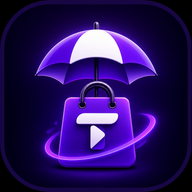
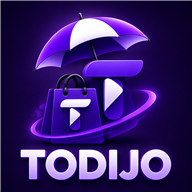
fix: tighten homepage hero and strengthen Todijo branding

diff --git a/app/globals.css b/app/globals.css
@@ -1314,7 +1314,7 @@ body.todijoRootBody:has(.todijoLaunchSplash){background:#16074c}
 @media(max-width:420px){.buyerHomePage .discoveryHeroGrid{padding:22px 14px 15px}.buyerHomePage .discoveryHero h1{font-size:31px}.buyerHomePage .discoveryHeroActions{display:grid;grid-template-columns:1fr}.buyerHomePage .discoveryHeroCta{width:100%;justify-content:center}.heroProductCollage{min-height:190px;height:190px}.todijoTrustPrimary .todijoTrustGrid article{flex-basis:86vw}.marketplaceSectionHeading h2{font-size:19px}.marketplaceSectionHeading small{font-size:9px}.marketplaceViewAll{font-size:10px}.featuredStoreCard{flex-basis:90vw}.marketplaceFooterCompact{display:flex}}
 
 /* Premium homepage and approved 3D Todijo identity */
-.todijoBrand{gap:8px}.todijoBrandMark{object-fit:cover;border-radius:12px;filter:drop-shadow(0 4px 9px rgba(93,25,207,.28))}.todijoWordmark{color:inherit}.todijoWordmark>span{color:#b967ff!important}
+.todijoBrand{gap:9px}.todijoBrandMark{object-fit:cover;border-radius:11px;filter:drop-shadow(0 4px 9px rgba(93,25,207,.32))}.todijoWordmark{color:inherit;font-weight:950;letter-spacing:-1.1px;text-shadow:0 1px 10px rgba(26,4,62,.22)}.todijoWordmark>span{color:#d59aff!important}
 .authLogo{min-height:58px;padding-inline-start:66px;display:flex;align-items:center;background:url('/images/brand/todijo-mark.png') left center/56px 56px no-repeat;color:#fff}.authLogo span{color:#ba68ff}[dir=rtl] .authLogo{padding-inline-start:0;padding-inline-end:66px;background-position:right center}
 .buyerHomePage .discoveryHero{padding:18px 0 10px;background:linear-gradient(180deg,#f9f5ff,#fff)}
 .premiumHeroSlider{position:relative;height:clamp(470px,42vw,610px);overflow:hidden;border-radius:30px;background:#100331;box-shadow:0 30px 75px rgba(75,17,145,.28);touch-action:pan-y;isolation:isolate}
@@ -1333,13 +1333,35 @@ body.todijoRootBody:has(.todijoLaunchSplash){background:#16074c}
 
 /* Final homepage polish: near-full-width hero and a single-row Nouveautés rail. */
 .buyerHomePage .premiumHeroContainer{width:min(1720px,calc(100% - 24px))}
-.buyerHomePage .premiumHeroSlider{height:clamp(410px,34vw,500px)}
+.buyerHomePage .premiumHeroSlider{height:clamp(250px,21vw,300px)}
+.buyerHomePage .premiumHeroCopy{padding:24px 52px}.buyerHomePage .premiumHeroCopy .badge{padding:5px 9px;font-size:10px}.buyerHomePage .premiumHeroCopy h1{margin:8px 0 6px;font-size:clamp(29px,3vw,43px);line-height:1}.buyerHomePage .premiumHeroCopy p{font-size:13px;line-height:1.4}.buyerHomePage .premiumHeroCopy .discoveryHeroActions{margin-top:12px}.buyerHomePage .premiumHeroCopy .discoveryHeroCta{min-height:40px;padding-inline:14px;font-size:12px}.buyerHomePage .premiumHeroCopy .discoveryHeroSignals{margin-top:10px;gap:10px}.premiumHeroProducts{inset:7% 4% 7% auto;width:39%;padding:8px;border-radius:19px}[dir=rtl] .premiumHeroProducts{inset:7% auto 7% 4%}.premiumHeroProducts .heroProductCollage{gap:6px}.premiumHeroProducts .heroProductCard{border-radius:11px}.premiumHeroProducts .heroProductCard>span{padding:18px 7px 6px}.premiumHeroProducts .heroProductCard strong{font-size:9px}.premiumHeroProducts .heroProductCard b{font-size:9px}
 .marketplaceCarouselFrame{position:relative}.marketplaceCarouselArrow{position:absolute;z-index:8;top:50%;width:54px;height:54px;padding:0;border:1px solid rgba(109,40,217,.2);border-radius:50%;background:linear-gradient(145deg,#7c3aed,#5b21b6);color:#fff;display:grid;place-items:center;transform:translateY(-50%);cursor:pointer;box-shadow:0 13px 30px rgba(70,29,112,.3)}.marketplaceCarouselArrow.previous{inset-inline-start:-27px}.marketplaceCarouselArrow.next{inset-inline-end:-27px}.marketplaceCarouselArrow:hover{background:linear-gradient(145deg,#8b4af0,#6421c7);transform:translateY(-50%) scale(1.06)}.marketplaceCarouselArrow:focus-visible{outline:4px solid rgba(124,58,237,.3);outline-offset:3px}.marketplaceCarouselArrow svg{width:24px;height:24px}[dir=rtl] .marketplaceCarouselArrow svg{transform:scaleX(-1)}
 .marketplaceRailSection.isCarousel .marketplaceProductRail{display:grid!important;grid-template-columns:none!important;grid-auto-flow:column;grid-auto-columns:calc((100% - 56px)/5);gap:14px;overflow-x:auto!important;overflow-y:hidden;padding:4px 0 20px;scroll-snap-type:x mandatory;scroll-behavior:smooth;scrollbar-width:none;overscroll-behavior-inline:contain}.marketplaceRailSection.isCarousel .marketplaceProductRail::-webkit-scrollbar{display:none}.marketplaceRailSection.isCarousel .marketplaceProductRail .discoveryCard{display:flex!important;min-width:0;scroll-snap-align:start;scroll-snap-stop:normal}.marketplaceRailSection.isCarousel .marketplaceProductRail .discoveryImageWrap{height:190px}
 @media(max-width:1100px) and (min-width:861px){.marketplaceRailSection.isCarousel .marketplaceProductRail{grid-auto-columns:calc((100% - 42px)/4)}.marketplaceCarouselArrow.previous{inset-inline-start:5px}.marketplaceCarouselArrow.next{inset-inline-end:5px}}
-@media(max-width:860px){.buyerHomePage .premiumHeroContainer{width:100%}.buyerHomePage .premiumHeroSlider{height:500px}.marketplaceRailSection.isCarousel .marketplaceProductRail{display:flex!important;gap:11px;padding:4px 3px 15px}.marketplaceRailSection.isCarousel .marketplaceProductRail .discoveryCard{flex:0 0 min(62vw,238px)!important}.marketplaceRailSection.isCarousel .marketplaceProductRail .discoveryImageWrap{height:auto}.marketplaceCarouselArrow{width:44px;height:44px}.marketplaceCarouselArrow.previous{inset-inline-start:4px}.marketplaceCarouselArrow.next{inset-inline-end:4px}.marketplaceCarouselArrow svg{width:20px;height:20px}}
-@media(max-width:430px){.buyerHomePage .premiumHeroSlider{height:470px}.marketplaceRailSection.isCarousel .marketplaceProductRail .discoveryCard{flex-basis:min(68vw,224px)!important}.marketplaceCarouselArrow{width:40px;height:40px}.marketplaceCarouselArrow svg{width:18px;height:18px}.marketplaceRailSection.isCarousel .marketplaceViewAll{padding-inline:9px}}
-@media(max-width:350px){.buyerHomePage .discoveryHero{padding-inline:6px}.buyerHomePage .premiumHeroSlider{height:450px}.marketplaceRailSection.isCarousel .marketplaceProductRail .discoveryCard{flex-basis:min(72vw,216px)!important}.marketplaceSectionHeading{align-items:center}.marketplaceSectionHeading>div{gap:7px}.marketplaceRailSection.isCarousel .marketplaceViewAll{font-size:9px;padding-inline:7px}.marketplaceCarouselArrow{width:38px;height:38px}}
+@media(max-width:860px){.buyerHomePage .premiumHeroContainer{width:100%}.marketplaceRailSection.isCarousel .marketplaceProductRail{display:flex!important;gap:11px;padding:4px 3px 15px}.marketplaceRailSection.isCarousel .marketplaceProductRail .discoveryCard{flex:0 0 min(62vw,238px)!important}.marketplaceRailSection.isCarousel .marketplaceProductRail .discoveryImageWrap{height:auto}.marketplaceCarouselArrow{width:44px;height:44px}.marketplaceCarouselArrow.previous{inset-inline-start:4px}.marketplaceCarouselArrow.next{inset-inline-end:4px}.marketplaceCarouselArrow svg{width:20px;height:20px}}
+@media(max-width:430px){.marketplaceRailSection.isCarousel .marketplaceProductRail .discoveryCard{flex-basis:min(68vw,224px)!important}.marketplaceCarouselArrow{width:40px;height:40px}.marketplaceCarouselArrow svg{width:18px;height:18px}.marketplaceRailSection.isCarousel .marketplaceViewAll{padding-inline:9px}}
+@media(max-width:350px){.buyerHomePage .discoveryHero{padding-inline:6px}.marketplaceRailSection.isCarousel .marketplaceProductRail .discoveryCard{flex-basis:min(72vw,216px)!important}.marketplaceSectionHeading{align-items:center}.marketplaceSectionHeading>div{gap:7px}.marketplaceRailSection.isCarousel .marketplaceViewAll{font-size:9px;padding-inline:7px}.marketplaceCarouselArrow{width:38px;height:38px}}
+
+/* Strict homepage rhythm: empty/hidden regions collapse and visible sections keep one consistent gap. */
+.buyerHomePage:not(.searchResultsPage) .todijoTrustPrimary{margin:16px auto 18px;padding-block:18px}
+.buyerHomePage:not(.searchResultsPage) .categoryShowcase,
+.buyerHomePage:not(.searchResultsPage) .marketplaceRailSection,
+.buyerHomePage:not(.searchResultsPage) .featuredStores,
+.buyerHomePage:not(.searchResultsPage) .discoveryLayout{margin-top:20px}
+.buyerHomePage:not(.searchResultsPage) .marketplaceDiscoverySections{padding-block:0 8px}
+.buyerHomePage:not(.searchResultsPage) .marketplaceDiscoverySections:empty,
+.buyerHomePage:not(.searchResultsPage) .featuredStores:empty{display:none;margin:0;padding:0}
+@media(max-width:860px){
+  .buyerHomePage:not(.searchResultsPage) .discoveryHero,
+  .buyerHomePage:not(.searchResultsPage) .todijoTrustPrimary,
+  .buyerHomePage:not(.searchResultsPage) .discoveryPromoBanner,
+  .buyerHomePage:not(.searchResultsPage) .featuredStores,
+  .buyerHomePage:not(.searchResultsPage) .sellerGrowthCta,
+  .buyerHomePage:not(.searchResultsPage) .mobileAppPromotion{display:none!important;margin:0!important;padding:0!important;min-height:0!important}
+  .buyerHomePage:not(.searchResultsPage) .categoryShowcase,
+  .buyerHomePage:not(.searchResultsPage) .marketplaceRailSection,
+  .buyerHomePage:not(.searchResultsPage) .discoveryLayout{margin-top:0}
+}
 
 /* Phase 3 — one semantic, lightweight category identity system. */
 :root{--category-violet-bg:#f0e7ff;--category-violet-fg:#6d28d9;--category-pink-bg:#ffe8f3;--category-pink-fg:#c0266d;--category-orange-bg:#fff0dc;--category-orange-fg:#c26100;--category-blue-bg:#e7f2ff;--category-blue-fg:#1769c2;--category-turquoise-bg:#e2f8f3;--category-turquoise-fg:#087d69;--category-green-bg:#e7f6e9;--category-green-fg:#287a3e;--category-yellow-bg:#fff7d6;--category-yellow-fg:#986500;--category-coral-bg:#ffebe7;--category-coral-fg:#c34834}
@@ -1372,7 +1394,6 @@ body.todijoRootBody:has(.todijoLaunchSplash){background:#16074c}
 .todijoTrustPrimary p{font-size:11px;line-height:1.52}
 @media(max-width:1240px) and (min-width:861px){.todijoTrustPrimary .todijoTrustGrid{grid-template-columns:repeat(3,minmax(0,1fr))}.todijoTrustPrimary .todijoTrustGrid article{min-height:286px}}
 @media(max-width:860px){.todijoTrustPrimary .todijoTrustGrid article{flex:0 0 min(82vw,310px);min-height:320px}.todijoTrustPrimary .trustArtworkZone{height:164px;flex-basis:164px}.todijoTrustPrimary .trustContentZone{padding:16px}.todijoTrustPrimary .todijoTrustGrid article>div{max-width:none}}
-@media(max-width:860px){.buyerHomePage .discoveryPromoBanner{display:flex!important}.buyerHomePage .mobileAppPromotion{display:block!important}}
 @media(max-width:340px){.buyerMobileCategoryBrowser{grid-template-columns:102px minmax(0,1fr)}.buyerMobileCategoryParents button{min-height:88px}.buyerMobileCategoryParents button>.buyerMobileCategoryParentIcon{width:44px;height:44px;flex-basis:44px}.buyerMobileCategoryParents button>span:last-child{max-width:92px;overflow-wrap:anywhere}.categoryShowcaseGrid>a{flex-basis:108px!important}}
 @media(prefers-reduced-motion:reduce){.marketCategoryNavigation .marketQuickCategory>.semanticCategoryIcon,.categoryShowcaseGrid>a{transition:none}.marketCategoryNavigation .marketQuickCategory:hover>.semanticCategoryIcon,.categoryShowcaseGrid>a:hover{transform:none}}
 
@@ -1385,9 +1406,9 @@ body.todijoRootBody:has(.todijoLaunchSplash){background:#16074c}
   .buyerHomePage:not(.searchResultsPage) .featuredStores,
   .buyerHomePage:not(.searchResultsPage) .sellerGrowthCta,
   .buyerHomePage:not(.searchResultsPage) .mobileAppPromotion{display:none!important}
-  .buyerHomePage:not(.searchResultsPage) .categoryShowcase{margin-top:10px}
+  .buyerHomePage:not(.searchResultsPage) .categoryShowcase{margin-top:0}
   .buyerHomePage:not(.searchResultsPage) .marketplaceDiscoverySections{padding-top:2px}
-  .buyerHomePage:not(.searchResultsPage) .marketplaceDiscoverySections>.marketplaceRailSection:first-child{margin-top:8px}
+  .buyerHomePage:not(.searchResultsPage) .marketplaceDiscoverySections>.marketplaceRailSection:first-child{margin-top:0}
   .buyerMobileCategoryChildren{min-width:0}
   .buyerMobileBoutiquesLink{min-height:54px;margin:0 0 10px;padding:0 12px!important;border:1px solid #d9c8ee;border-radius:14px;background:linear-gradient(135deg,#f4edff,#fff);color:#5b21b6!important;display:grid!important;grid-template-columns:28px minmax(0,1fr) 18px;align-items:center;gap:8px;font-weight:850}
   [dir=rtl] .buyerMobileBoutiquesLink>svg:last-child{transform:scaleX(-1)}

diff --git a/public/sw.js b/public/sw.js
@@ -1,10 +1,10 @@
 /* Todijo Stage 1 service worker: public shell assets only; commerce stays network-authoritative. */
-const CACHE_VERSION = "mobile-brand-v2";
+const CACHE_VERSION = "mobile-brand-v3";
 const CACHE_PREFIX = "todijo-pwa-";
 const SHELL_CACHE = CACHE_PREFIX + "shell-" + CACHE_VERSION;
 const STATIC_CACHE = CACHE_PREFIX + "static-" + CACHE_VERSION;
 const OFFLINE_PAGES = ["/en/offline", "/fr/offline", "/ar/offline"];
-const SHELL_ASSETS = ["/icon.svg", "/icon-192.png?v=2", "/icon-512.png?v=2", "/icon-maskable-512.png?v=2", "/apple-icon.png?v=2", ...OFFLINE_PAGES];
+const SHELL_ASSETS = ["/icon-192.png?v=3", "/icon-512.png?v=3", "/icon-maskable-512.png?v=3", "/apple-icon.png?v=3", ...OFFLINE_PAGES];
 const STATIC_DESTINATIONS = new Set(["style", "script", "font", "image"]);
 const PUBLIC_IMAGE_PREFIXES = ["/images/", "/icon", "/favicon.ico", "/apple-icon.png"];
 const LOCALIZED_PREFIX = /^\/(?:en|fr|ar|ku|tr|de|es|it|nl|zh|fa|hi|pt|ru)(?=\/|$)/i;
@@ -59,8 +59,8 @@ self.addEventListener("push", (event) => {
   const data = safePushData(event);
   event.waitUntil(self.registration.showNotification("Todijo", {
     body: PUSH_COPY[data.category],
-    icon: "/icon-192.png?v=2",
-    badge: "/icon-192.png?v=2",
+    icon: "/icon-192.png?v=3",
+    badge: "/icon-192.png?v=3",
     tag: `todijo-${data.category.toLowerCase()}`,
     data: { href: data.href },
   }));

diff --git a/app/manifest.ts b/app/manifest.ts
@@ -1,5 +1,5 @@
 import type { MetadataRoute } from "next";
 
 export default function manifest(): MetadataRoute.Manifest {
-  return { id: "/", name: "Todijo Marketplace", short_name: "Todijo", description: "Professional multi-vendor marketplace", start_url: "/?source=pwa", scope: "/", display: "standalone", orientation: "any", background_color: "#100331", theme_color: "#16074c", categories: ["shopping"], icons: [{ src: "/icon-192.png?v=2", sizes: "192x192", type: "image/png", purpose: "any" }, { src: "/icon-512.png?v=2", sizes: "512x512", type: "image/png", purpose: "any" }, { src: "/icon-maskable-512.png?v=2", sizes: "512x512", type: "image/png", purpose: "maskable" }, { src: "/apple-icon.png?v=2", sizes: "180x180", type: "image/png" }] };
+  return { id: "/", name: "Todijo Marketplace", short_name: "Todijo", description: "Professional multi-vendor marketplace", start_url: "/?source=pwa", scope: "/", display: "standalone", orientation: "any", background_color: "#100331", theme_color: "#16074c", categories: ["shopping"], icons: [{ src: "/icon-192.png?v=3", sizes: "192x192", type: "image/png", purpose: "any" }, { src: "/icon-512.png?v=3", sizes: "512x512", type: "image/png", purpose: "any" }, { src: "/icon-maskable-512.png?v=3", sizes: "512x512", type: "image/png", purpose: "maskable" }, { src: "/apple-icon.png?v=3", sizes: "180x180", type: "image/png" }] };
 }

diff --git a/app/HomeClient.tsx b/app/HomeClient.tsx
@@ -153,7 +153,7 @@ export default function HomeClient({ products, heroProducts, newArrivals, bestSe
         ["/images/homepage/benefit-delivery.webp","delivery",Truck,d("deliveryTitle"),d("deliveryText")],
         ["/images/homepage/benefit-messages.webp","support",Headphones,d("messagesTitle"),d("messagesText")],
         ["/images/homepage/benefit-sellers.webp","marketplace",Store,d("independentTitle"),d("independentText")],
-        ["/images/homepage/hero-shopping.webp","confidence",ShieldCheck,d("confidenceTitle"),d("confidenceText")],
+        ["/images/auth/secure-login.webp","confidence",ShieldCheck,d("confidenceTitle"),d("confidenceText")],
       ].map(([image,kind,Icon,title,text],index)=><article key={String(image)}><div className="trustArtworkZone"><Image className="trustArtwork" src={String(image)} alt="" fill loading="eager" sizes="(max-width: 860px) 82vw, (max-width: 1240px) 46vw, 240px"/></div><div className="trustContentZone"><span className={`trustIcon ${kind}`}><Icon/></span><div><h2 id={index===0?"todijo-trust-title":undefined}>{String(title)}</h2><p>{String(text)}</p></div></div></article>)}</div></section>
 
 

diff --git a/app/layout.tsx b/app/layout.tsx
@@ -27,7 +27,7 @@ export async function generateMetadata(): Promise<Metadata> {
     title: { default: "Todijo Marketplace", template: `%s · ${t("brand")}` },
     description: t("description"),
     metadataBase: new URL(base),
-    icons: { icon: [{ url: "/icon-192.png?v=2", type: "image/png", sizes: "192x192" }, { url: "/favicon.ico", sizes: "any" }], apple: "/apple-icon.png?v=2" },
+    icons: { icon: [{ url: "/icon-192.png?v=3", type: "image/png", sizes: "192x192" }, { url: "/favicon.ico", sizes: "any" }], apple: "/apple-icon.png?v=3" },
     appleWebApp: { capable: true, statusBarStyle: "black-translucent", title: "Todijo" },
     manifest: "/manifest.webmanifest",
     openGraph: { title: t("title"), description: t("description"), type: "website", images: [{ url: "/images/brand/todijo-horizontal-dark.webp", width: 720, height: 400, alt: "Todijo" }] },

diff --git a/components/TodijoLogo.tsx b/components/TodijoLogo.tsx
@@ -3,7 +3,7 @@ import Image from "next/image";
 
 export default function TodijoLogo({ href = "/", compact = false, inverse = false }: { href?: string; compact?: boolean; inverse?: boolean }) {
   return <Link className={`todijoBrand${compact ? " isCompact" : ""}${inverse ? " isInverse" : ""}`} href={href} aria-label="Todijo">
-    <Image className="todijoBrandMark" src="/images/brand/todijo-mark.png" width={48} height={48} alt="" priority/>
+    <Image className="todijoBrandMark" src="/images/brand/todijo-app-icon-v3.png" width={48} height={48} alt="" priority/>
     {!compact && <span className="todijoWordmark">Todijo<span>.</span></span>}
   </Link>;
 }

diff --git a/app/offline/page.tsx b/app/offline/page.tsx
@@ -13,7 +13,7 @@ export default async function OfflinePage() {
   const text = copy[locale as keyof typeof copy] ?? copy.en;
   return <main className="offlinePage" dir={rtlLocales.has(locale) ? "rtl" : "ltr"}>
     <section className="offlineCard" aria-labelledby="offline-title">
-      <img src="/icon-192.png?v=2" width="72" height="72" alt=""/>
+      <img src="/icon-192.png?v=3" width="72" height="72" alt=""/>
       <p>{text.eyebrow}</p>
       <h1 id="offline-title">{text.title}</h1>
       <span>{text.body}</span>
